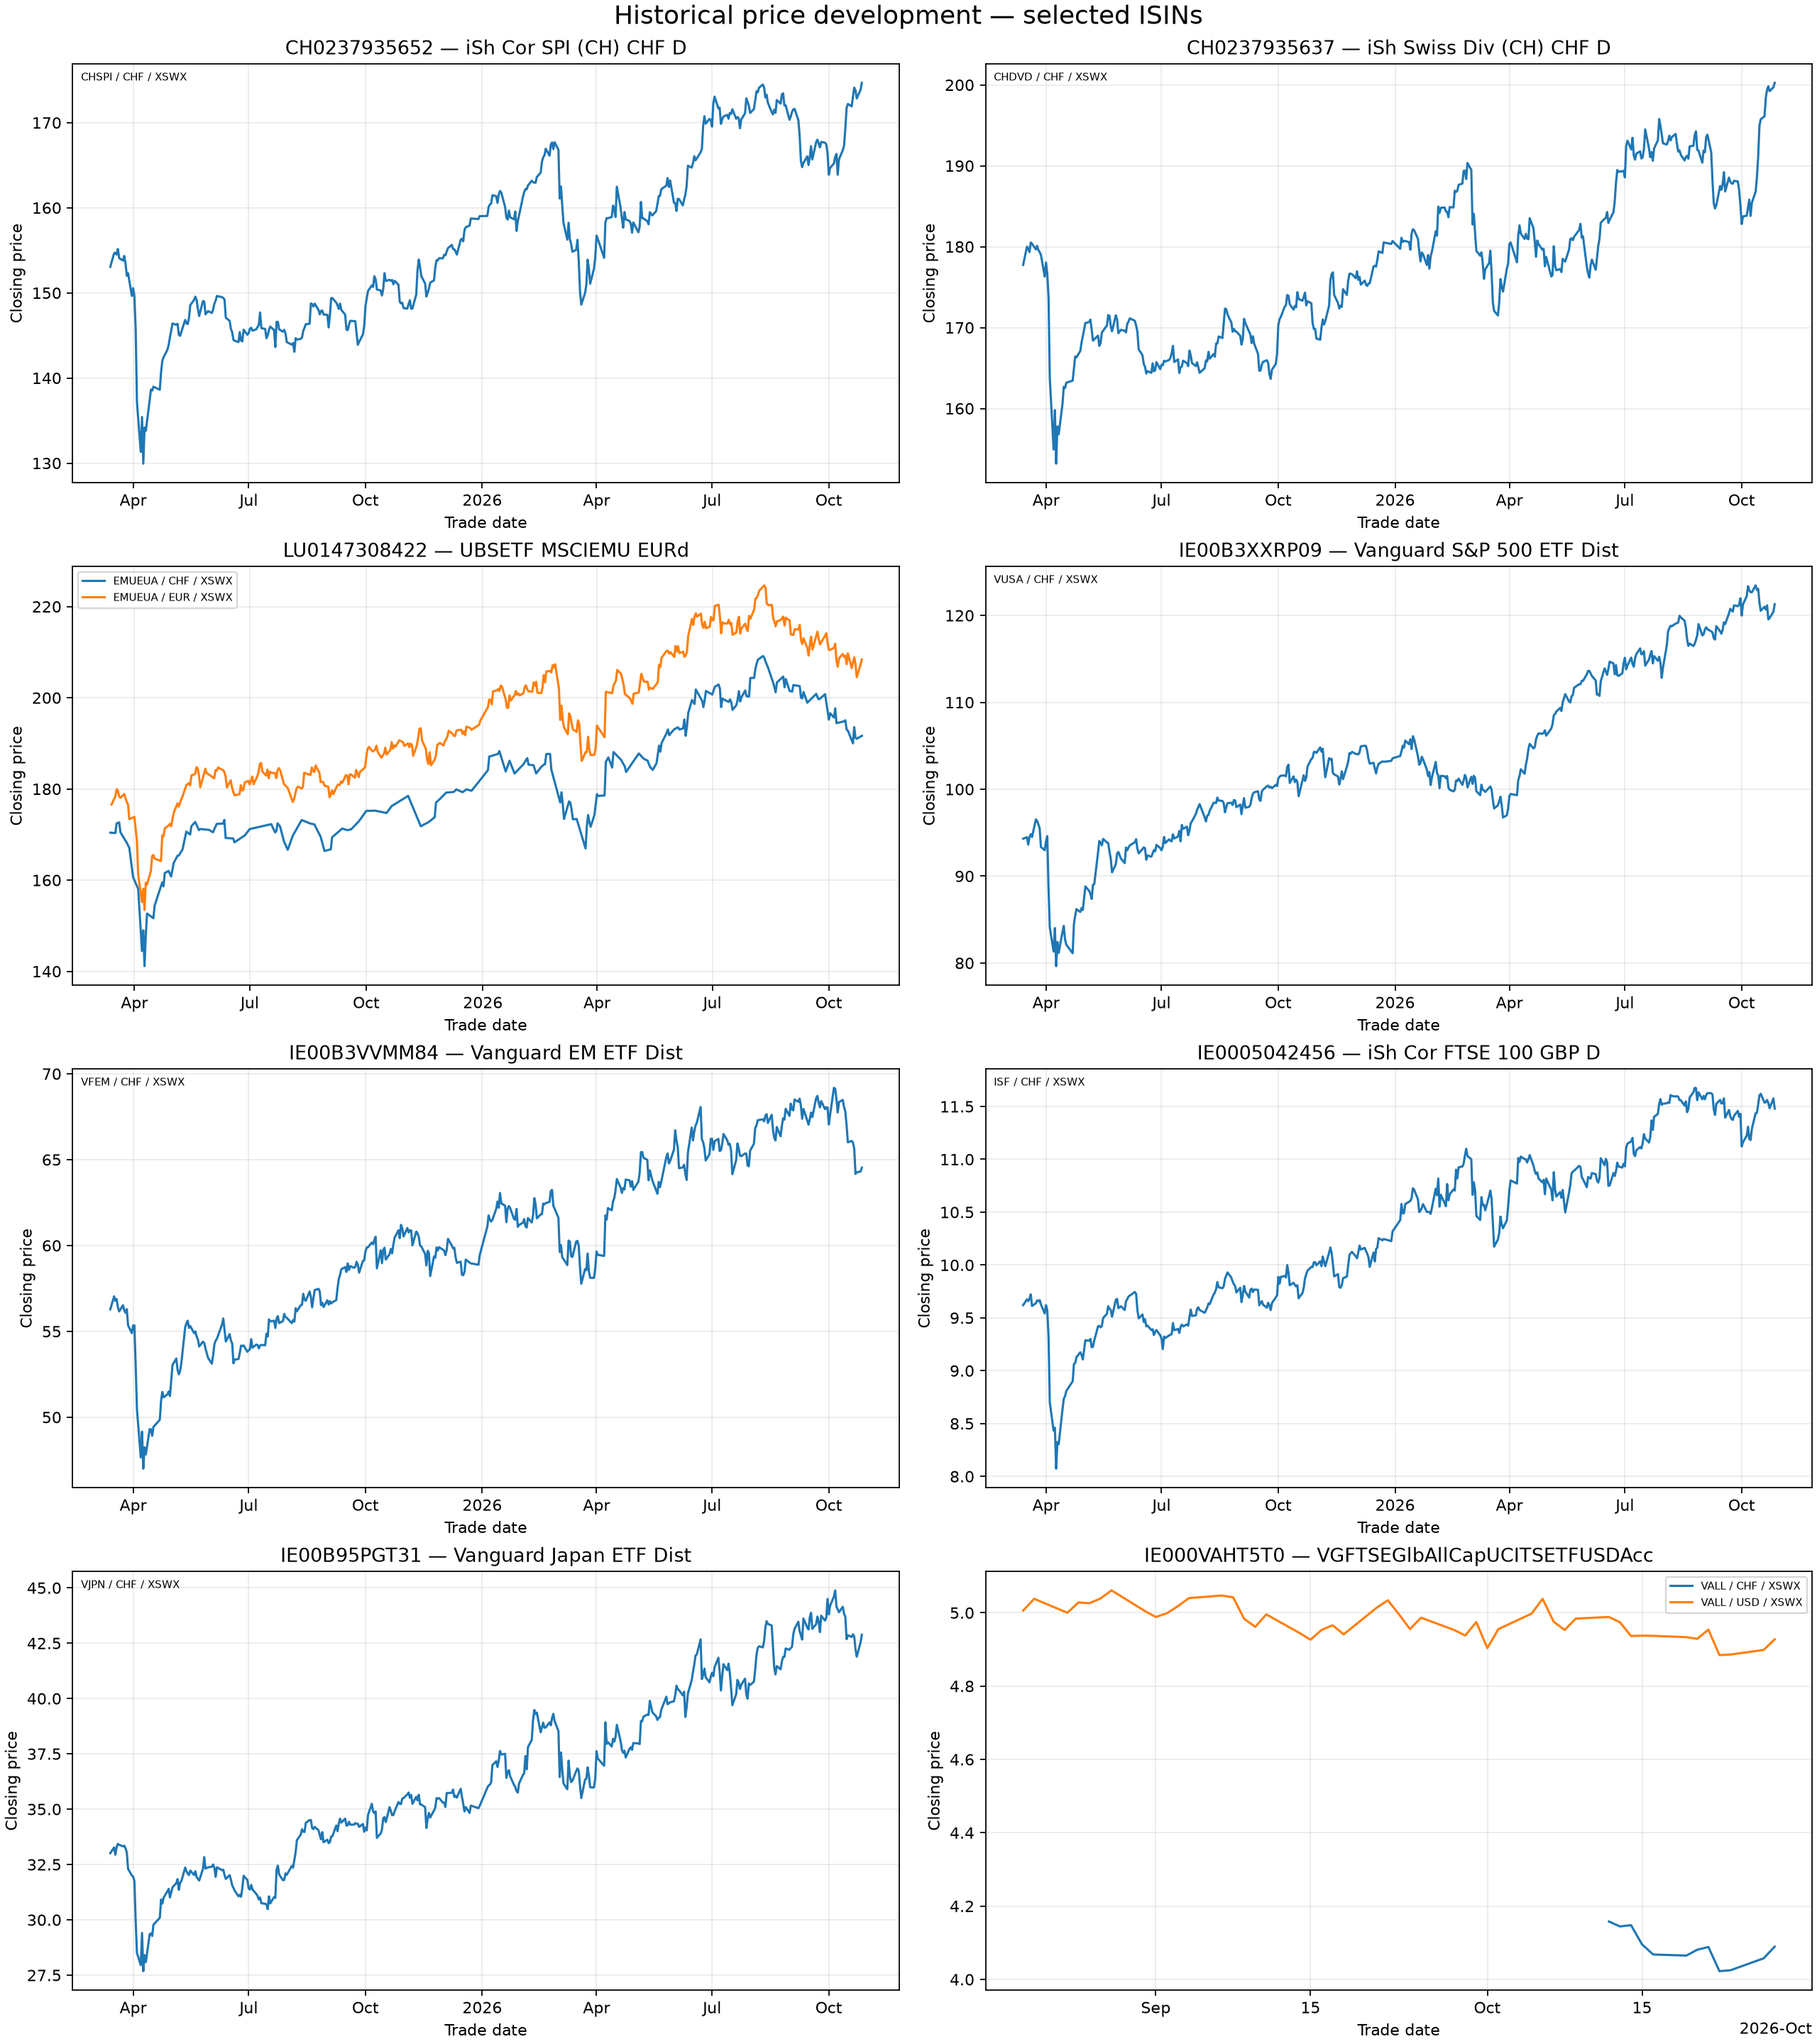
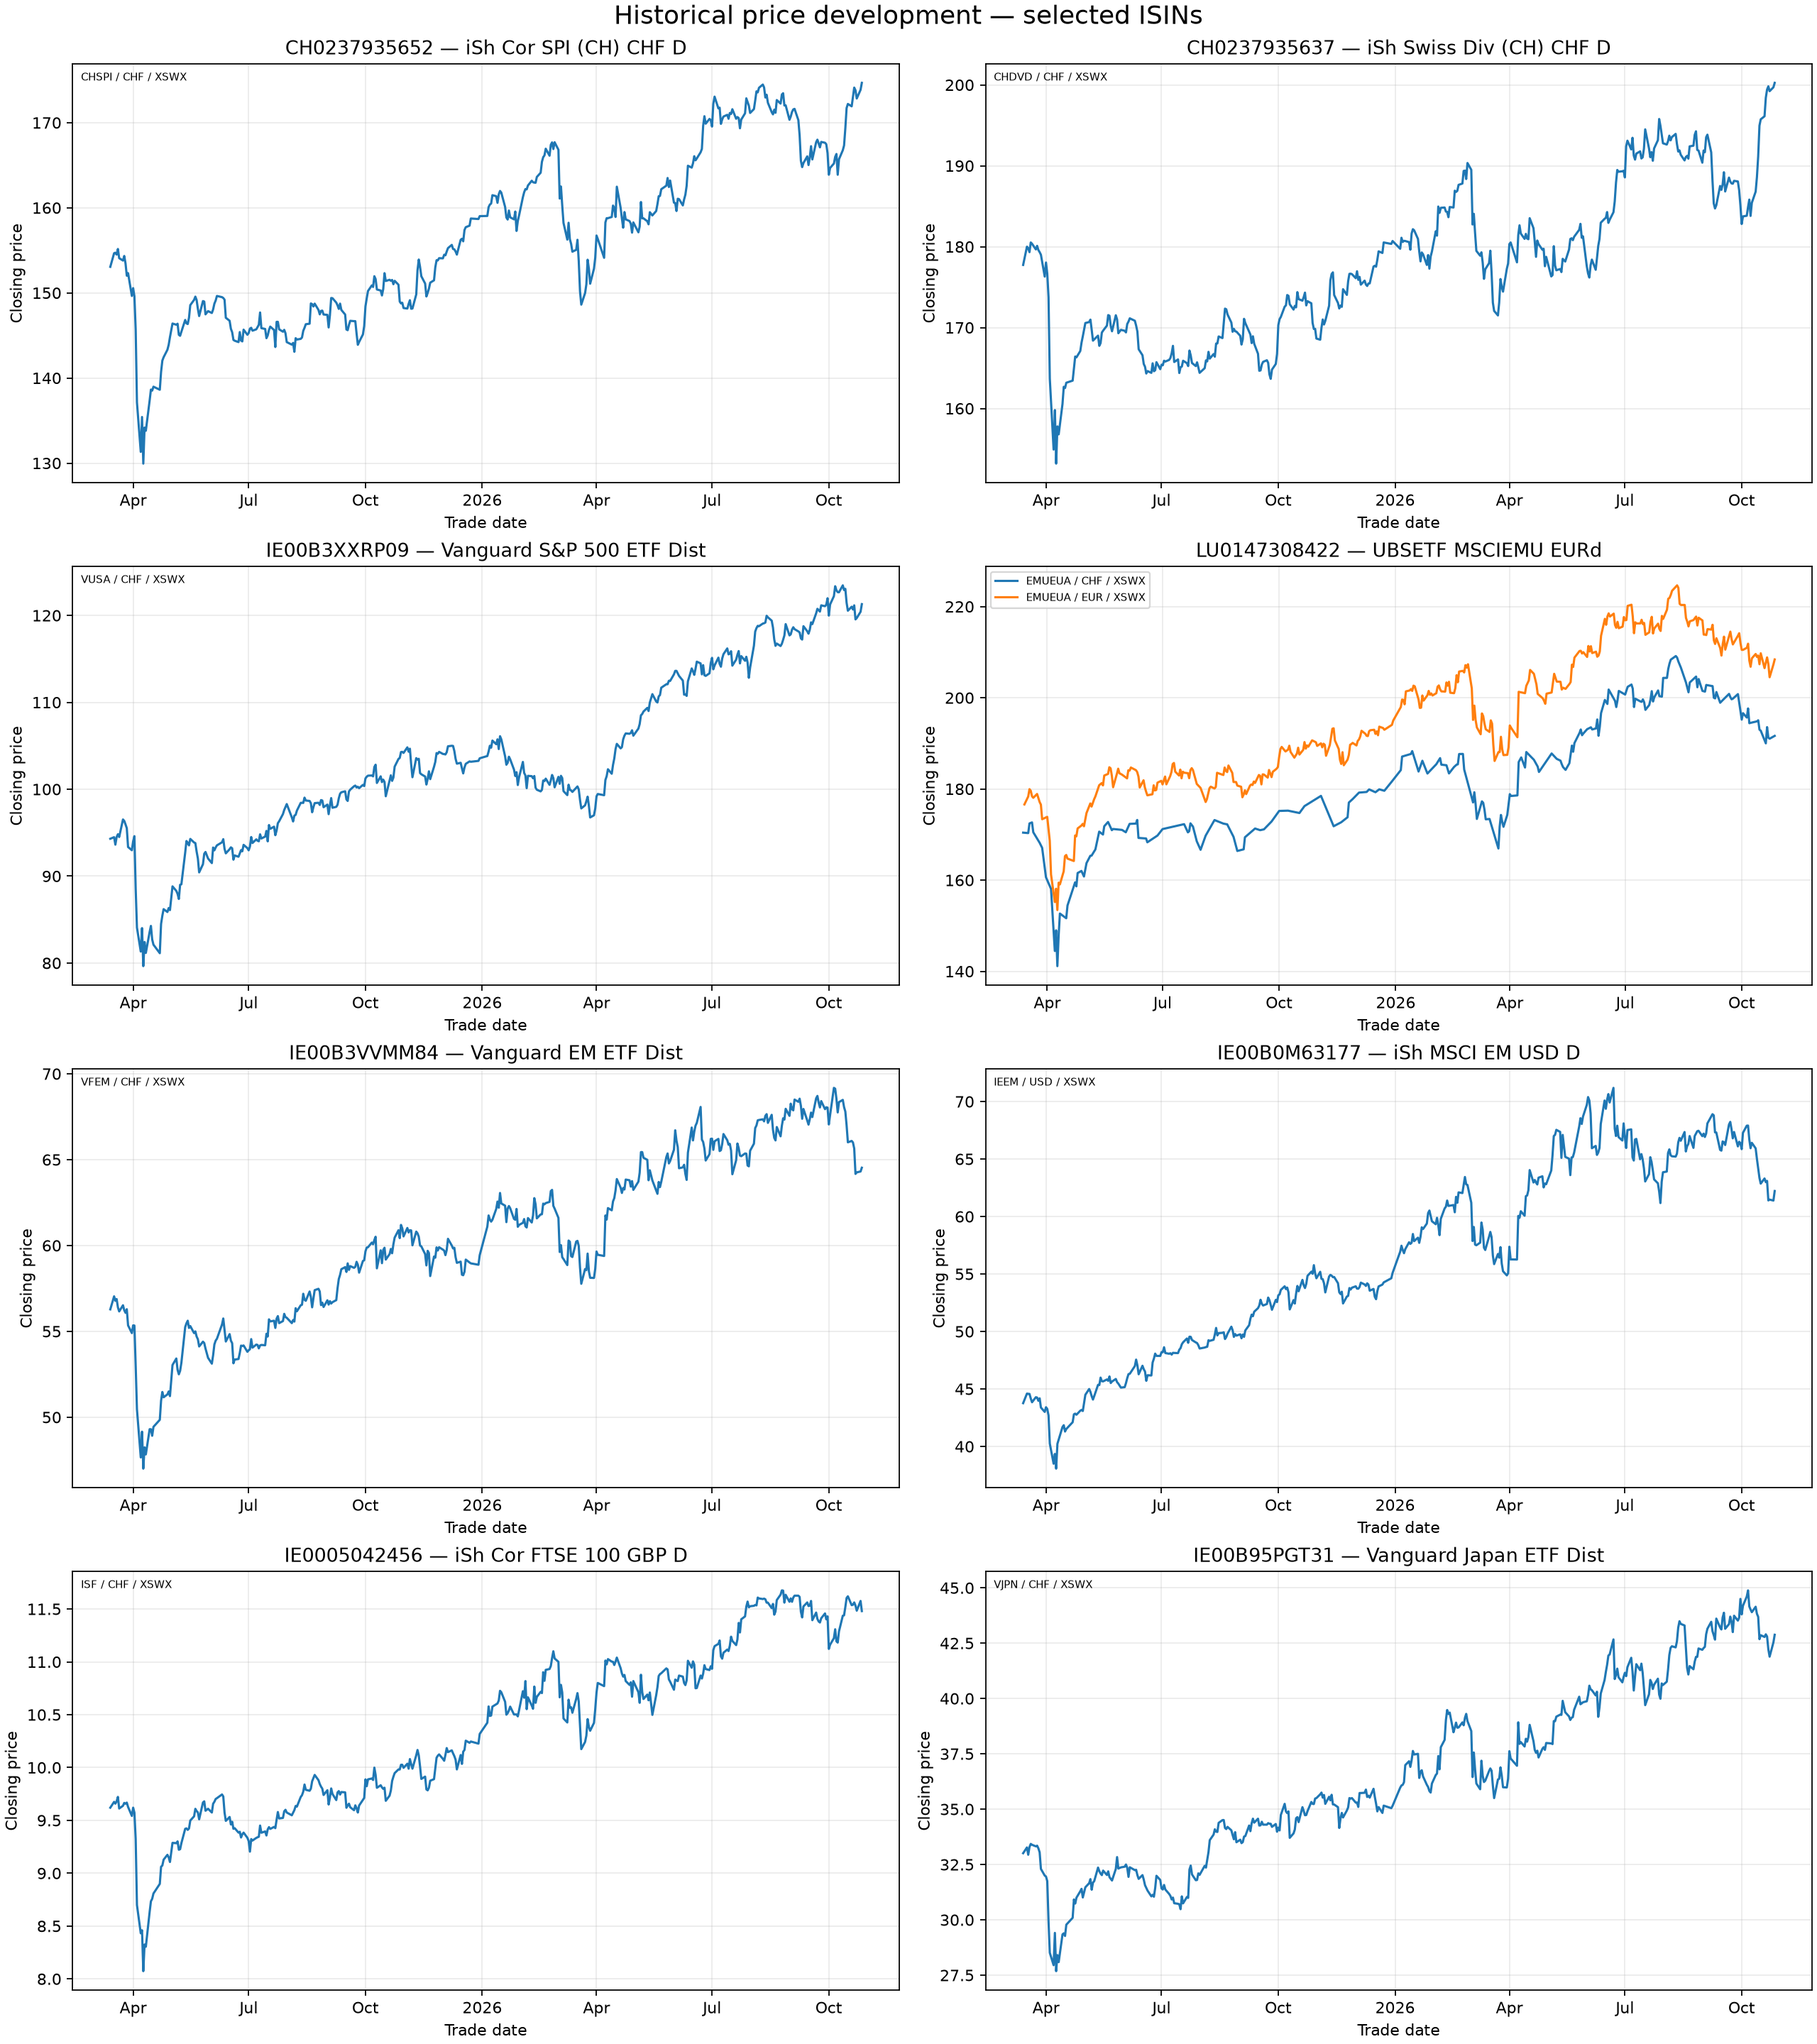
changed readme isin

diff --git a/analysis/analyze_isins.py b/analysis/analyze_isins.py
@@ -23,12 +23,12 @@ except ImportError as exc:
 ISINS = [
     "CH0237935652",
     "CH0237935637",
-    "LU0147308422",
     "IE00B3XXRP09",
+    "LU0147308422",
     "IE00B3VVMM84",
+    "IE00B0M63177",
     "IE0005042456",
     "IE00B95PGT31",
-    "IE000VAHT5T0",
 ]
 
 REPO_ROOT = Path(__file__).resolve().parent.parent

diff --git a/analysis/README.md b/analysis/README.md
@@ -30,12 +30,12 @@ The configured ISINs are:
 
 - `CH0237935652`
 - `CH0237935637`
-- `LU0147308422`
 - `IE00B3XXRP09`
+- `LU0147308422`
 - `IE00B3VVMM84`
+- `IE00B0M63177`
 - `IE0005042456`
 - `IE00B95PGT31`
-- `IE000VAHT5T0`
 
 To display the overview interactively as well:
 
